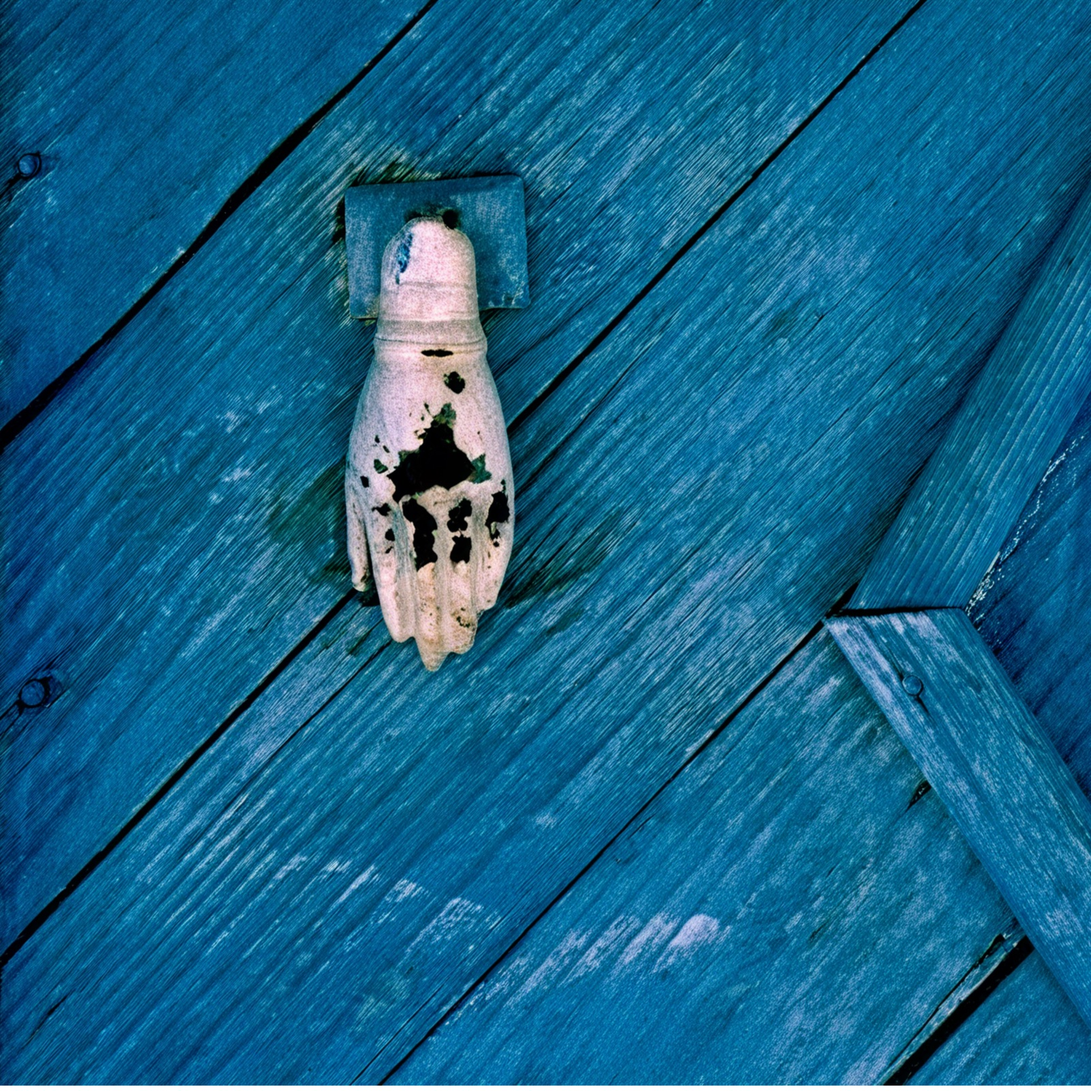
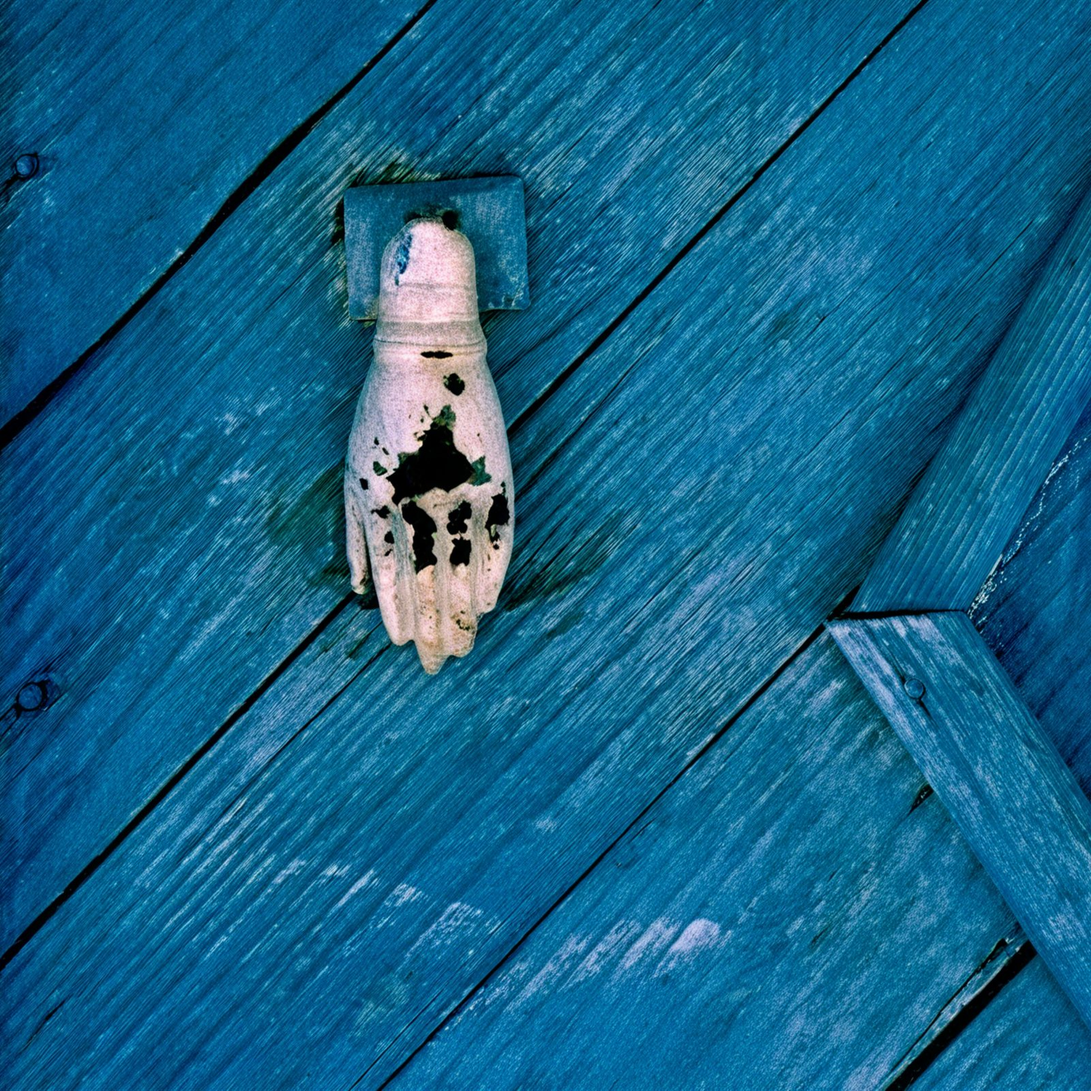
Kapak sayfası oturdu: beyaz şerit, oklar, başlık ve çağrı

diff --git a/index.html b/index.html
@@ -938,13 +938,18 @@
      koyulaşıyor. Dokunmatikte büyüyor ve çerçeve kazanıyorlar. */
   .sayfa-oklar{flex:none;display:flex;align-items:center;gap:.3rem;
     margin-right:auto}
-  .sayfa-ok{flex:none;width:26px;height:26px;display:grid;place-items:center;
-    background:none;border:1px solid transparent;border-radius:2px;
-    cursor:pointer;color:var(--ink-faint);font:inherit;
-    font-size:1rem;line-height:1;padding:0 0 .1em;
-    transition:color .18s,border-color .18s,opacity .18s}
+  /* ‹ › ÇOK SÖNÜKTÜ — Tolga uzun süre aradı. Üç şey değişti: işaret
+     ok oldu (← →: caret bir yön değil bir noktalama gibi okunuyordu),
+     renk `ink-faint`ten `ink-soft`a çıktı, ve düğmenin çerçevesi hep
+     duruyor. Üstüne gelince mürekkep koyulaşıyor. */
+  .sayfa-ok{flex:none;width:30px;height:26px;display:grid;place-items:center;
+    background:none;border:1px solid var(--ink-faint);border-radius:2px;
+    cursor:pointer;color:var(--ink-soft);font:inherit;
+    font-size:.95rem;line-height:1;padding:0;
+    transition:color .18s,border-color .18s,background .18s,opacity .18s}
   .sayfa-ok:hover,.sayfa-ok:focus-visible{color:var(--ink);
-    border-color:var(--ink-faint);outline:none}
+    border-color:var(--ink);
+    background:color-mix(in srgb,var(--ink) 8%,transparent);outline:none}
   /* Sonu ya da başı: düğme kaybolmuyor, SÖNÜYOR. Kaybolsaydı yanındaki
      düğme yer değiştirirdi ve nerede olduğun okunmazdı. */
   .sayfa-ok[disabled]{opacity:.28;pointer-events:none}
@@ -1253,15 +1258,56 @@
   .ld-kagit.ld-fonlu .ld-sayfa{
     text-shadow:0 0 .28em var(--paper),0 0 .28em var(--paper),
                 0 0 .55em var(--paper),0 0 1em var(--paper)}
-  /* KAPAK SAYFASI. Kare kapak `cover` ile kırpılıyordu; `contain` ile
-     tamamı görünüyor. Sayfada yazı olmadığı için metin bulutu ve hâle
-     de kapatılıyor — ikisi de boş bir sayfanın ortasında leke bırakıyor. */
-  .ld-kagit.ld-fonlu:has(.ld-d-kapak.acik)::before{
-    background-size:contain;background-repeat:no-repeat}
+  /* KAPAK SAYFASI — görsel fon değil, gerçek bir <img>.
+     Figürün eni görselin eniyle aynı (`width:fit-content`), böylece
+     başlık ve büyüteç sayfanın değil RESMİN köşelerine yapışıyor.
+     Fon düzeneği bu sayfada hiç devreye girmiyor; metin bulutu ve hâle
+     de kapalı. */
   .ld-sayfa.ld-d-kapak{max-width:none}
-  .ld-sayfa.ld-d-kapak.acik{display:block;height:100%}
+  /* Kapak KARE. Kutusunu doğrudan hesaplıyoruz: kabın kısa kenarı.
+     Esnek düzende denendi — flex, görseli çapraz eksende esnetiyor ve
+     figür resimden geniş kalıyordu; `fit-content` ise yüzdelik en-boy
+     yüzünden döngüye giriyordu. Kap sorgusu ikisini de aşıyor. */
+  .ld-sayfa.ld-d-kapak.acik{display:grid;place-items:center;
+    height:100%;min-height:0;container-type:size}
   .ld-kagit.ld-fonlu .ld-d-kapak::after{display:none}
   .ld-kagit.ld-fonlu .ld-d-kapak{text-shadow:none}
+  /* Figür GÖRSELİ SARIYOR, sayfayı değil: başlık ve büyüteç resmin
+     köşelerine yapışsın diye. Esnek düzende `max-height:100%` kabın
+     kesin boyuna göre çözülüyor; `display:block` + `fit-content` ile
+     denendi, yüzdelik en-boy döngüye giriyor ve görsel taşıyordu. */
+  .ld-kapak{position:relative;margin:0;display:block;
+    width:min(100cqw,100cqh);height:min(100cqw,100cqh)}
+  .ld-kapak img{display:block;width:100%;height:100%;
+    object-fit:contain;border-radius:2px}
+  /* Başlık RESMİN sağ alt köşesinde. Kapağın o köşesi orta mavi ve
+     dokulu: beyaz yazı + koyu gölge okunuyor, perde gerekmiyor. */
+  .ld-kapak-ad{position:absolute;right:1.1rem;bottom:1rem;z-index:2;
+    max-width:min(28ch,72%);text-align:right;color:#fff;
+    text-shadow:0 1px 2px rgba(0,0,0,.75),0 0 1.2em rgba(0,0,0,.65)}
+  .ld-kapak-ad b{display:block;font-size:1.35rem;font-weight:600;
+    letter-spacing:.06em;line-height:1.2}
+  .ld-kapak-ad span{display:block;margin-top:.3rem;font-size:.8rem;
+    letter-spacing:.04em;line-height:1.5;color:rgba(255,255,255,.88)}
+  /* Büyüteç karşı köşede — başlıkla çakışmasın diye SOL altta. */
+  /* `.ld-gorsel-ac` genel kuralı `display:block;width:100%` — büyüteç
+     kapakta bütün eni kaplıyordu. Buradaki kural onu eziyor. */
+  .ld-kapak .ld-kapak-ac{position:absolute;left:1rem;bottom:1rem;right:auto;
+    top:auto;width:2.1rem;height:2.1rem;line-height:1;z-index:3;
+    display:grid;place-items:center;
+    border-radius:50%;padding:0;cursor:zoom-in;
+    background:rgba(0,0,0,.42);border:1px solid rgba(255,255,255,.42);
+    color:rgba(255,255,255,.85);
+    transition:color .2s,border-color .2s,background .2s}
+  .ld-kapak-ac:hover,.ld-kapak-ac:focus-visible{color:#fff;
+    border-color:#fff;background:rgba(0,0,0,.6);outline:none}
+  .ld-kapak-ac svg{width:1rem;height:1rem}
+  @media (max-width:720px){
+    .ld-kapak-ad b{font-size:1.05rem}
+    .ld-kapak-ad span{font-size:.72rem}
+    .ld-kapak-ad{right:.7rem;bottom:.7rem;max-width:80%}
+    .ld-kapak-ac{left:.7rem;bottom:.7rem}
+  }
   .ld-kagit > .ld-sayfalar{position:relative;z-index:1}
 
 
@@ -2079,9 +2125,9 @@
   <header class="pencere-bar">
     <div class="sayfa-oklar">
       <button class="sayfa-ok" id="triGeri" type="button"
-              aria-label="Önceki sayfa" data-i18n-aria="Önceki sayfa">‹</button>
+              aria-label="Önceki sayfa" data-i18n-aria="Önceki sayfa">←</button>
       <button class="sayfa-ok" id="triIleri" type="button"
-              aria-label="Sonraki sayfa" data-i18n-aria="Sonraki sayfa">›</button>
+              aria-label="Sonraki sayfa" data-i18n-aria="Sonraki sayfa">→</button>
     </div>
     <span class="pencere-ad" id="tritonetAd">Tritonet</span>
     <a class="pencere-dis" id="tritonetDis" href="https://tritonet.pages.dev/ui/tritonet-controller" target="_blank" rel="noopener" aria-label="Yeni sekmede aç" data-i18n-aria="Yeni sekmede aç" title="Yeni sekmede aç" data-i18n-title="Yeni sekmede aç"><svg viewBox="0 0 24 24" aria-hidden="true"><path d="M14 4h6v6"/><path d="M20 4 11.5 12.5"/><path d="M18 14.5V19a1.5 1.5 0 0 1-1.5 1.5h-11A1.5 1.5 0 0 1 4 19V8a1.5 1.5 0 0 1 1.5-1.5H10"/></svg></a>
@@ -2111,9 +2157,9 @@
   <header class="pencere-bar">
     <div class="sayfa-oklar">
       <button class="sayfa-ok" id="ldGeri" type="button"
-              aria-label="Önceki sayfa" data-i18n-aria="Önceki sayfa">‹</button>
+              aria-label="Önceki sayfa" data-i18n-aria="Önceki sayfa">←</button>
       <button class="sayfa-ok" id="ldIleri" type="button"
-              aria-label="Sonraki sayfa" data-i18n-aria="Sonraki sayfa">›</button>
+              aria-label="Sonraki sayfa" data-i18n-aria="Sonraki sayfa">→</button>
     </div>
     <span class="pencere-ad" id="likyaAd">Likya Dede</span>
     <button class="pencere-kapat" id="likyaKapat" aria-label="Ağaca dön" data-i18n-aria="Ağaca dön"><svg viewBox="0 0 24 24" aria-hidden="true"><path d="M12 22V10"/><path d="M12 14.4 7.6 9.8"/><path d="M12 12.2 16.4 7.6"/><path d="M7.6 9.8 5.2 6"/><path d="M7.6 9.8 9.2 5.2"/><path d="M16.4 7.6 18.8 4"/><path d="M16.4 7.6 14.9 3.2"/><path d="M8.4 22h7.2"/></svg></button>
@@ -2192,9 +2238,9 @@
   <header class="pencere-bar">
     <div class="sayfa-oklar">
       <button class="sayfa-ok" id="bvGeri" type="button"
-              aria-label="Önceki sayfa" data-i18n-aria="Önceki sayfa">‹</button>
+              aria-label="Önceki sayfa" data-i18n-aria="Önceki sayfa">←</button>
       <button class="sayfa-ok" id="bvIleri" type="button"
-              aria-label="Sonraki sayfa" data-i18n-aria="Sonraki sayfa">›</button>
+              aria-label="Sonraki sayfa" data-i18n-aria="Sonraki sayfa">→</button>
     </div>
     <span class="pencere-ad" id="basvuruAd" data-i18n="Kilitli belge">Kilitli belge</span>
     <button class="pencere-kapat" id="basvuruKapat" aria-label="Ağaca dön" data-i18n-aria="Ağaca dön"><svg viewBox="0 0 24 24" aria-hidden="true"><path d="M12 22V10"/><path d="M12 14.4 7.6 9.8"/><path d="M12 12.2 16.4 7.6"/><path d="M7.6 9.8 5.2 6"/><path d="M7.6 9.8 9.2 5.2"/><path d="M16.4 7.6 18.8 4"/><path d="M16.4 7.6 14.9 3.2"/><path d="M8.4 22h7.2"/></svg></button>
@@ -3967,7 +4013,7 @@ return {
 <script>
 (() => {
 'use strict';
-const SURUM = 'v82 · 2026-08-15';
+const SURUM = 'v83 · 2026-08-15';
 console.log('%cağaç ' + SURUM, 'color:#C08A3E');
 /* Köşede sürüm numarası değil SON GÜNCELLEME TARİHİ yazıyor: ziyaretçi
    için "v58" hiçbir şey söylemiyor, "13 Ağustos 2026" söylüyor. Sürüm
@@ -8617,9 +8663,19 @@ const LD_ICERIK = [
      duruyor, künyesi köşedeki büyütecin arkasında. Fon `cover` değil
      `contain` ile geliyor (bkz. `.ld-d-kapak`), kare kapak kırpılmasın. */
   { ad:{tr:'Kapak', en:'Cover'}, duzen:'kapak',
+    yazi:{ ad:{tr:'Likya Dede', en:'Likya Dede'},
+           alt:{tr:'senfoni orkestrası ve sazendeler için müzikli masal',
+                en:'a musical tale for symphony orchestra and traditional instruments'} },
     fon:{url:'site/assets/img/likya-album/kapak.jpg', buyutulebilir:true,
-         kunye:{tr:'<b>Likya Dede</b> — albüm kapağı · CT Music Productions · 19 Eylül 2025',
-                en:'<b>Likya Dede</b> — album cover · CT Music Productions · 19 September 2025'}},
+         /* Fotoğrafın sahibi aranıyor — uydurulmuş bir künye değil, açık
+            bir çağrı. Adı öğrenilince bu not adla değişecek. */
+         kunye:{tr:'<b>Likya Dede</b> — albüm kapağı · CT Music Productions · 19 Eylül 2025<br><br>' +
+                   'Bu fotoğrafın aslı, 2004 yıllarında konuştuğum ve sonra izini kaybettiğim ' +
+                   'sevgili bir gönüldaşıma ait. Kendisine ulaşırsa, adını seve seve buraya eklerim.',
+                en:'<b>Likya Dede</b> — album cover · CT Music Productions · 19 September 2025<br><br>' +
+                   'The original of this photograph belongs to a dear kindred spirit I spoke with ' +
+                   'around 2004 and later lost touch with. If this reaches them, I would gladly ' +
+                   'add their name here.'}},
     blok:[] },
 
   { ad:{tr:'Masalın özeti', en:'The tale in short'}, duzen:'dar',
@@ -8857,6 +8913,28 @@ function ldSayfalariKur(){
        hem aynı şeyi iki kez söylüyordu. (1. sayfa ayrı: orada başlık
        bölümün adı, pencere adı değil.) */
     let h = '';
+    /* KAPAK: fon yerine gerçek bir <img>. Sebep, künye ve başlığın
+       GÖRSELİN köşesine yapışması gerekmesi — fon `contain` ile
+       geldiğinde görselin ekrandaki kutusu CSS'ten bilinmiyor, yazı
+       sayfanın köşesine, yani çoğu zaman resmin dışındaki karanlığa
+       düşüyordu. Figürün eni görselin eni kadar; iki köşe de artık
+       resmin üstünde. */
+    if (sayfa.duzen === 'kapak' && sayfa.fon){
+      const kn = sayfa.fon.kunye ? sayfa.fon.kunye[d].replace(/"/g,'&quot;') : '';
+      sec.innerHTML =
+        '<figure class="ld-kapak">' +
+          '<img src="' + sayfa.fon.url + '" alt="' + DIL.T('Likya Dede') + '">' +
+          (sayfa.yazi ? '<figcaption class="ld-kapak-ad">' +
+             '<b>' + sayfa.yazi.ad[d] + '</b>' +
+             '<span>' + sayfa.yazi.alt[d] + '</span></figcaption>' : '') +
+          '<button type="button" class="ld-gorsel-ac ld-kapak-ac"' +
+            ' data-buyuk="' + sayfa.fon.url + '"' +
+            (kn ? ' data-kunye="' + kn + '"' : '') +
+            ' aria-label="' + DIL.T('Büyüt') + '">' + BUYUTEC_SVG + '</button>' +
+        '</figure>';
+      kap.appendChild(sec);
+      return;
+    }
     /* İki bölmeli düzenler — ilk metin bloğuna kadarki her şey SOL
        bölmede, kalanı SAĞ bölmede:
          yan  → görsel solda, metin sağda
@@ -9216,7 +9294,10 @@ function ldSayfaAc(no){
      örtüyordu (Spotify iki fonlu sayfada kayboluyordu). */
   const kagit = document.querySelector('.ld-kagit');
   const sayfaVerisi = LD_ICERIK[ldIcerikIndeks(no)] || null;
-  const fon = sayfaVerisi ? sayfaVerisi.fon : null;
+  /* Kapak sayfası fonu KENDİ <img>'i ile taşıyor; kâğıda ayrıca fon
+     verilirse kapak iki kez çiziliyor (biri kırpılmış `cover`, biri
+     tam) ve ikisi üst üste biniyordu. */
+  const fon = (sayfaVerisi && sayfaVerisi.duzen !== 'kapak') ? sayfaVerisi.fon : null;
   kagit.classList.toggle('ld-fonlu', !!fon);
   if (fon) kagit.style.setProperty('--ld-fon', 'url("' + fon.url + '")');
   else kagit.style.removeProperty('--ld-fon');
